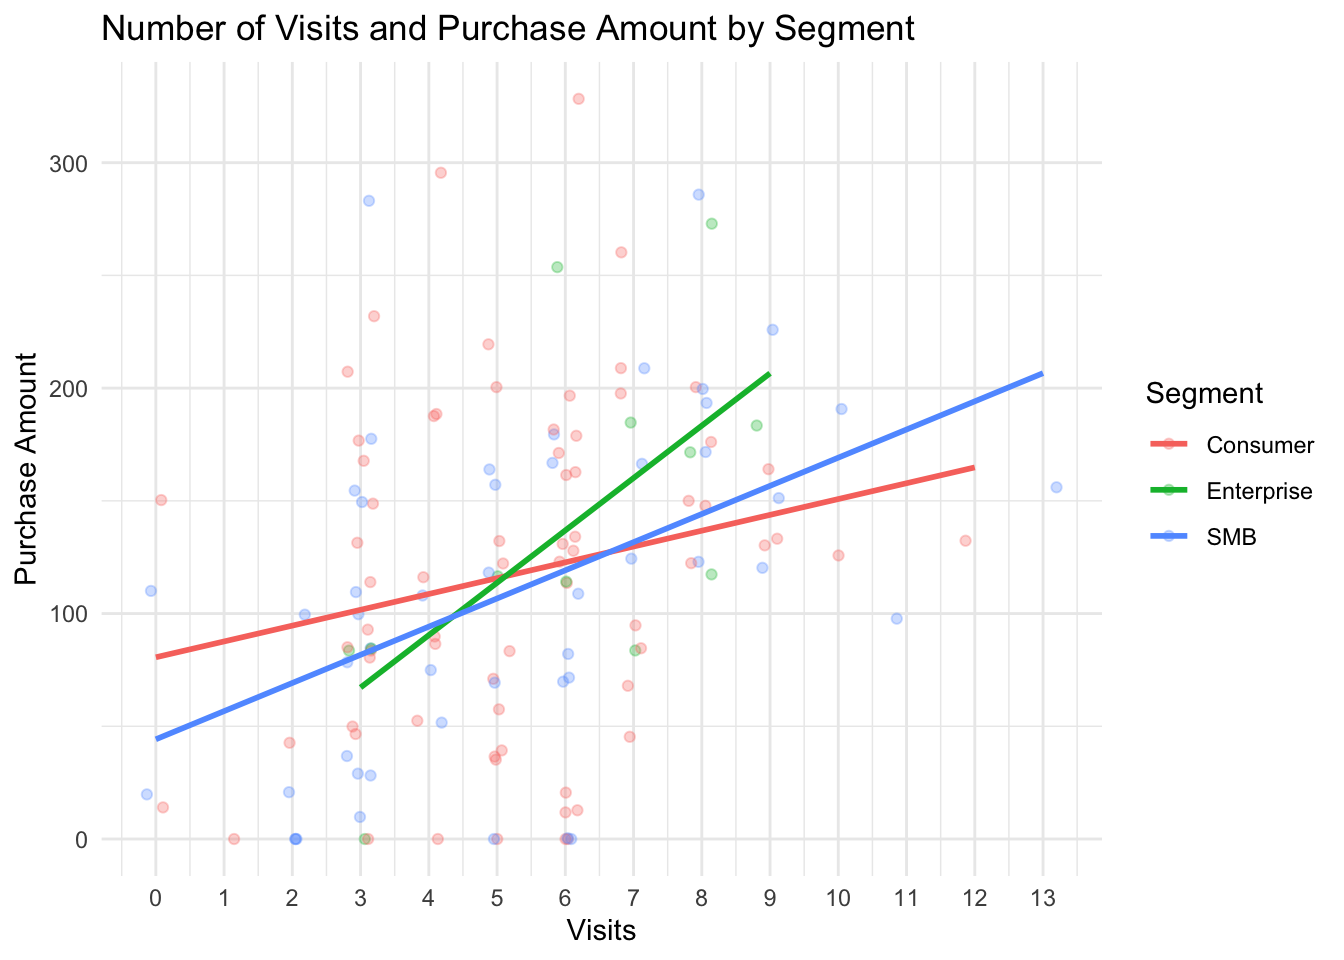
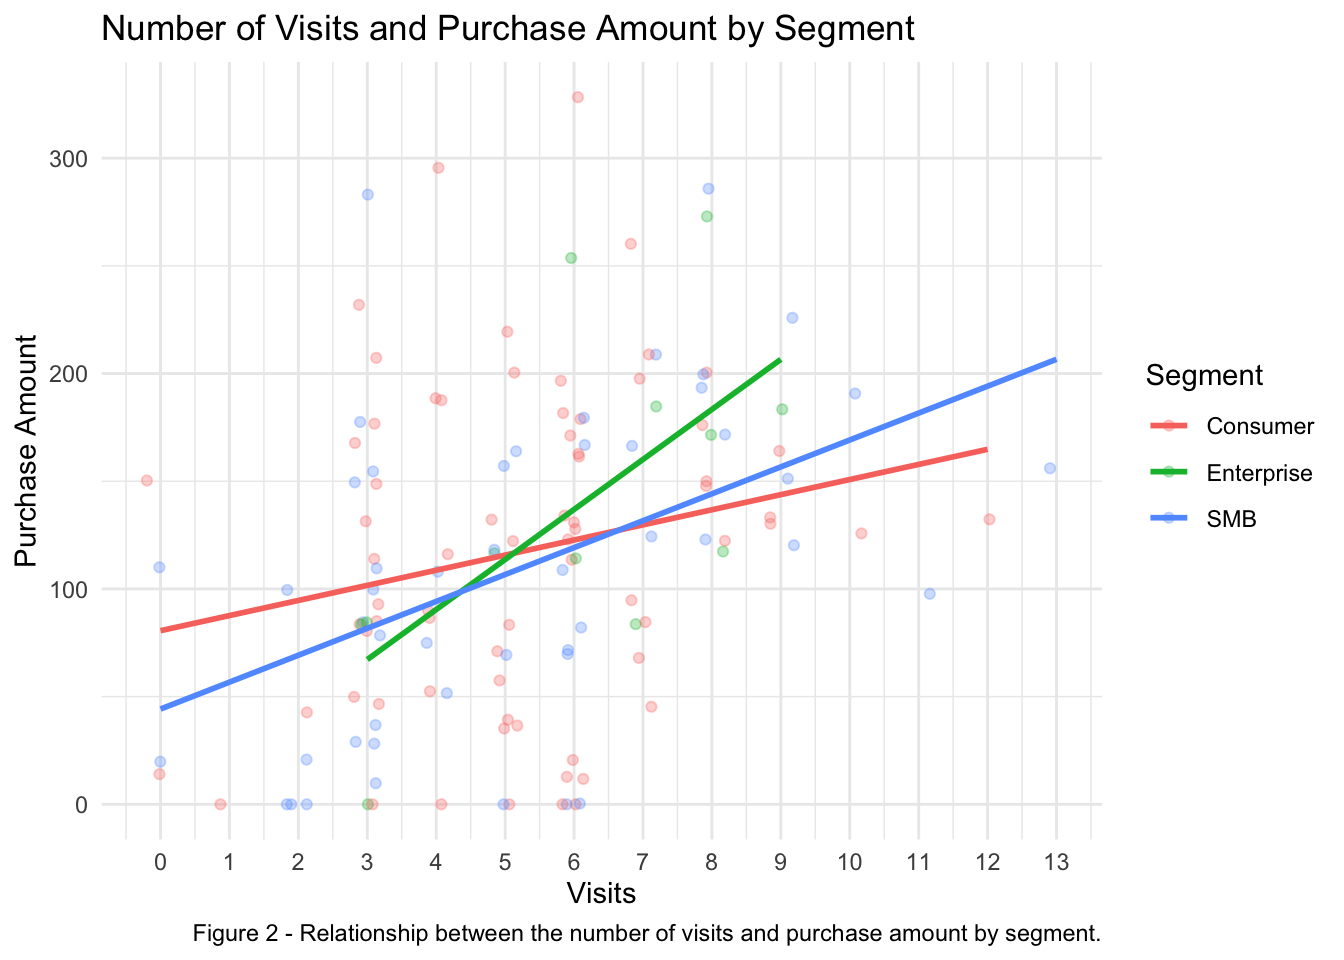
Completed "Results" section

diff --git a/assignment_1_report.html b/assignment_1_report.html
@@ -210,7 +210,6 @@ ul.task-list li input[type="checkbox"] {
 </div>
 </div>
 </div>
-<p><em>Figure 2 - Number of Visits and Purchase Amount by Segment</em> : This plot shows the relationship between the number of visits and purchase amount. It has linear trend lines to show the overall relationship between the two variables and allow comparison between segments.</p>
 <div class="cell">
 <div class="cell-output-display">
 <div>
@@ -220,7 +219,7 @@ ul.task-list li input[type="checkbox"] {
 </div>
 </div>
 </div>
-<p><em>Figure 3 - Marketing Expenditure and Purchase Amount by Segment</em> : This figure shows the relationship between marketing expenditure and purchase amount - with trendlines added for the same purpose as in Figure 2.</p>
+<p>There were 150 total rows in the dataset, but only 132 were used in the analysis. This was because the rows with missing purchase amounts were excluded. Figure 2 shows that as the number of visits increase, the purchase amount also tends to increase, with notable variation across segments. <em>Enterprise</em> shows the steepest trend but also the shortest, this was followed by <em>SMB</em> and then finally <em>Consumer</em> with the lowest gradient of all three slopes. It suggests a stronger increase in purchase amount with additional visits for <em>SMB</em> and <em>Enterprise</em> in comparison to <em>Consumer</em>. Figure 3 indicates that higher marketing expenditure is generally associated with higher purchase amounts, although this relationship only varies marginally across segments. It is improtant to note, however, that “Marketing Expenditure” tends to continually be slightly higher than “Purchase Amount” across all segments except for <em>Enterprise</em>. It seems to indicate that while Marketing strategies are strongly associated with increeased purchasing amounts, it is not being done so in a cost effective manner. The median purchase amount across all segments was found to be $116.94 in comparison to a median marketing expenditure of $131.825. In summary, both these figures suggest support for the research question, indicating that marketing expenditure and customer engagement (visits) are both related to purchase amount, and that this relationship differs across segments.</p>
 </section>
 
 </main>
